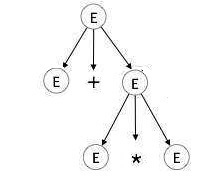
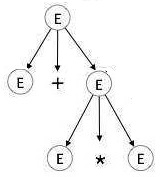
added modal and js for rmd part

Changed region(s): [[0.0312, 0.0, 0.9688, 0.9887], [0.5938, 0.8757, 0.6875, 0.9605], [0.625, 0.8192, 0.7188, 0.8757]]

diff --git a/index.html b/index.html
@@ -172,7 +172,99 @@
                     </div>
                 </div>
 
-                <button class="item btn">Button5</button>
+                <!-- assignment 3 - modal 3 -->
+
+                <button class="item btn" id="open-ass5">Right Derivation</button>
+                <div class="modal-container-lmd" id="modal-container-5">
+                    <div class="modal-lmd">
+                        <p class="title">Right Most Derivation</p>
+                        <p class="description">The process of deriving a string by expanding the rightmost non-terminal at each step is called as rightmost derivation.</p>
+                        <br>
+                        <br>
+                        <div class="lmd-grid">
+                            <div class="grid-item-1">
+                                <div class="production-rules">
+                                    <p class="title">Production Rules</p>
+                                    <p class="pr description">E->E+E</p>
+                                    <p class="pr description">E->E*E</p>
+                                    <p class="pr description">E->id</p>
+                                </div>
+                                <div class="input-string">
+                                    <p class="title">Input String</p>
+                                    <p id="input-string-p" class="description">id+id*id</p>
+                                </div>
+                            </div>
+                            <div class="grid-item-2">
+                                <p class="title" id="derivation">Derivation</p>
+                                <p class="pr description">E->E+E</p>
+                                <p class="pr description">E->E+E*E</p>
+                                <p class="pr description">E->E+E*id</p>
+                                <p class="pr description">E->E+id*id</p>
+                                <p class="pr description">E->id+id*id</p>
+                            </div>
+                        </div>
+
+                        <div class="statement-parse-tree">
+                            <div class="lmd-grid">
+                                <div class="grid-item-1">
+                                    <p class="title">Statement</p>
+                                </div>
+                                <div class="grid-item-2">
+                                    <p class="title">Parse Tree</p>
+                                </div>
+                            </div>
+                            <div class="lmd-grid">
+                                <div class="grid-item-1">
+                                    <p class="pr description">E->E+E</p>
+                                </div>
+                                <div class="grid-item-2">
+                                    <img src="images/rmd-img-1.jpg">
+                                </div>
+                            </div>
+                            <div class="lmd-grid">
+                                <div class="grid-item-1">
+                                    <p class="pr description">E->E+E*E</p>
+                                </div>
+                                <div class="grid-item-2">
+                                    <img src="images/rmd-img-2.jpeg">
+                                </div>
+                            </div>
+                            <div class="lmd-grid">
+                                <div class="grid-item-1">
+                                    <p class="pr description">E->E+E*id</p>
+                                </div>
+                                <div class="grid-item-2">
+                                    <img src="images/rmd-img-3.jpg">
+                                </div>
+                            </div>
+                            <div class="lmd-grid">
+                                <div class="grid-item-1">
+                                    <p class="pr description">E->E+id*id</p>
+                                </div>
+                                <div class="grid-item-2">
+                                    <img src="images/rmd-img-4.jpg">
+                                </div>
+                            </div>
+                            <div class="lmd-grid">
+                                <div class="grid-item-1">
+                                    <p class="pr description">E->id+id*id</p>
+                                </div>
+                                <div class="grid-item-2">
+                                    <img src="images/rmd-img-5.jpg">
+                                </div>
+                            </div>
+                        </div>
+                        <!-- <input type="text" placeholder=" Enter text" class="modal-input-output" id="modal-input-ass4">
+                        <button type="button" class="modal-run" id="modal-run-ass4">Run</button> -->
+                        <br>
+                        <br>
+                        <!-- <input type="text" placeholder=" Output" class="modal-input-output" id="modal-output-ass4" readonly> -->
+                        <br>
+                        <br>
+                        <button id="close-5" class="modal-button">Done</button>
+                    </div>
+                </div>
+
                 <button class="item btn">Button6</button>
                 <br>  
             </div>
@@ -182,5 +274,6 @@
     <script src="checkComment.js"></script>
     <script src="validateIdentifiers.js"></script>
     <script src="lmd.js"></script>
+    <script src="rmd.js"></script>
 </body>
 </html>

diff --git a/rmd.js b/rmd.js
@@ -1,0 +1,13 @@
+const openAss5 = document.getElementById('open-ass5');
+const modal_container_5 = document.getElementById('modal-container-5');
+const input_5 = document.getElementById("modal-input-ass5")
+//const output_4 = document.getElementById("modal-output-ass4");
+const close_5 = document.getElementById('close-5');
+
+openAss5.addEventListener('click', ()=>{
+    modal_container_5.classList.add('show');
+})
+
+close_5.addEventListener('click', ()=>{
+    modal_container_5.classList.remove('show');
+})
